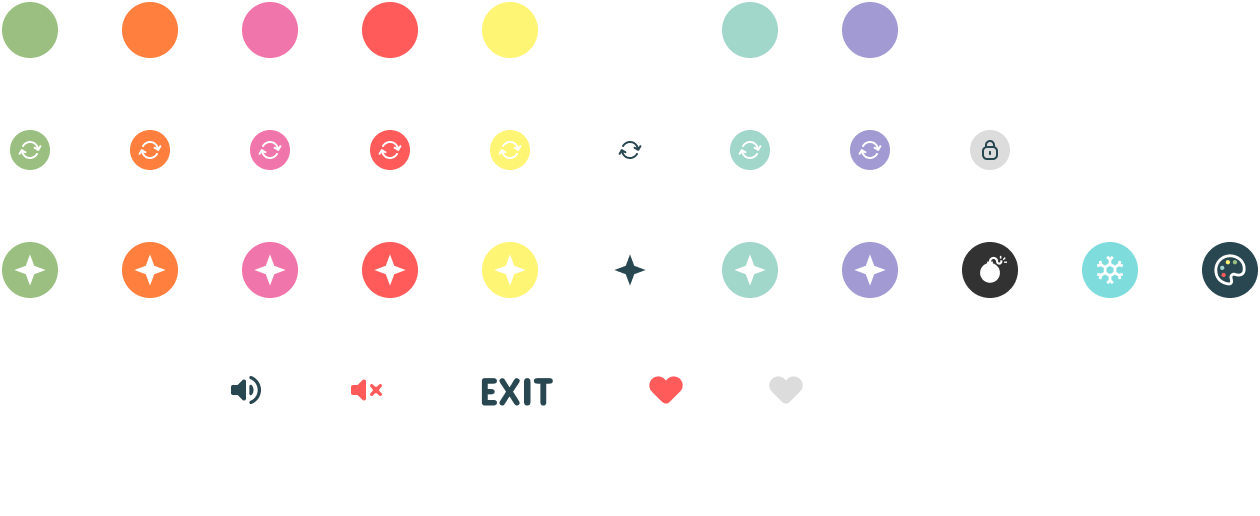
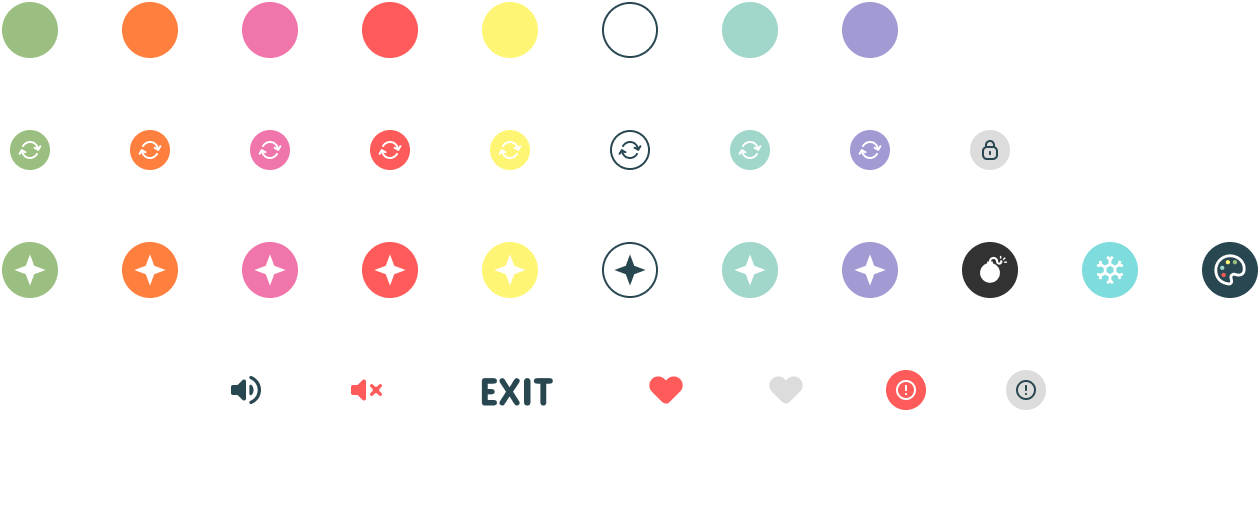
feat: change sprite sheet and add some UI

diff --git a/Objects/Scenes/PlayScene.cs b/Objects/Scenes/PlayScene.cs
@@ -25,7 +25,7 @@ public class PlayScene(GameManager gameManager) : Scene(gameManager)
         // left window
         LevelBox levelBox = new(Globals.GridSize * 6, Globals.GridSize * 1, new Vector2(0, Globals.GridSize * 1), null, Globals.DarkerBlueColor, Color.White);
         ExtraLifeBox extraLifeBox = new(Globals.GridSize * 6, Globals.GridSize * 2, new Vector2(0, Globals.GridSize * 3), "Extra Life", Color.White, Globals.DarkBlueColor, Globals.ShooterSceneSheet, BubbleHelper.ActiveShieldViewPort, BubbleHelper.InactiveShieldViewPort);
-        MissCountBox missCountBox = new(Globals.GridSize * 6, Globals.GridSize * 2, new Vector2(0, Globals.GridSize * 7), "Miss Count", Globals.DarkerBlueColor, Color.White, Globals.ShooterSceneSheet, BubbleHelper.NormalBubbleViewPort[BubbleColor.Red], BubbleHelper.NormalBubbleViewPort[BubbleColor.White]);
+        MissCountBox missCountBox = new(Globals.GridSize * 6, Globals.GridSize * 2, new Vector2(0, Globals.GridSize * 7), "Miss Count", Globals.DarkerBlueColor, Color.White, Globals.ShooterSceneSheet, BubbleHelper.ActiveMissViewPort, BubbleHelper.InactiveMissViewPort);
 
         Window leftWindow = new(SideBarWidth, Globals.ScreenH, new(LeftBarOffset, 0), Globals.BlueColor)
         {

diff --git a/Globals.cs b/Globals.cs
@@ -16,7 +16,6 @@ class Globals
     public const float BubbleRadius = 28f;
     public const float BubblePadding = 2f;
     public static int GameWindowHeight = 1080;
-
     public const float BubbleSpeed = 1000f;
     public static SpriteBatch SpriteBatch { get; set; }
     public static ContentManager Content { get; set; }
@@ -30,7 +29,6 @@ class Globals
     public static GameState GameState { get; set; }
     public static PlayerState PlayerState { get; set; }
     public static float Time { get; private set; }
-
     public static Color BlueColor = new Color(84, 161, 185);
 
     public static Color DarkBlueColor = new Color(44, 120, 143);

diff --git a/Objects/BubbleHelper.cs b/Objects/BubbleHelper.cs
@@ -73,4 +73,7 @@ public static class BubbleHelper
 
     public static readonly Rectangle ActiveShieldViewPort = new Rectangle(636, 360, 60, 60);
     public static readonly Rectangle InactiveShieldViewPort = new Rectangle(756, 360, 60, 60);
+    public static readonly Rectangle ActiveMissViewPort = new Rectangle(876, 360, 60, 60);
+    public static readonly Rectangle InactiveMissViewPort = new Rectangle(996, 360, 60, 60);
+
 }

diff --git a/Managers/BubbleManager.cs b/Managers/BubbleManager.cs
@@ -138,6 +138,7 @@ public class BubbleManager : IComponent
                 _bubbles[row, col]?.Draw();
             }
         }
+        Globals.SpriteBatch.Draw(Globals.Pixel, new Rectangle(0, _maxRows * (int)_rowHeight, Globals.ScreenW, Globals.ScreenH), Color.Red * 0.5f);
     }
 
     public void HandleShotBubble(Bubble shotBubble)
